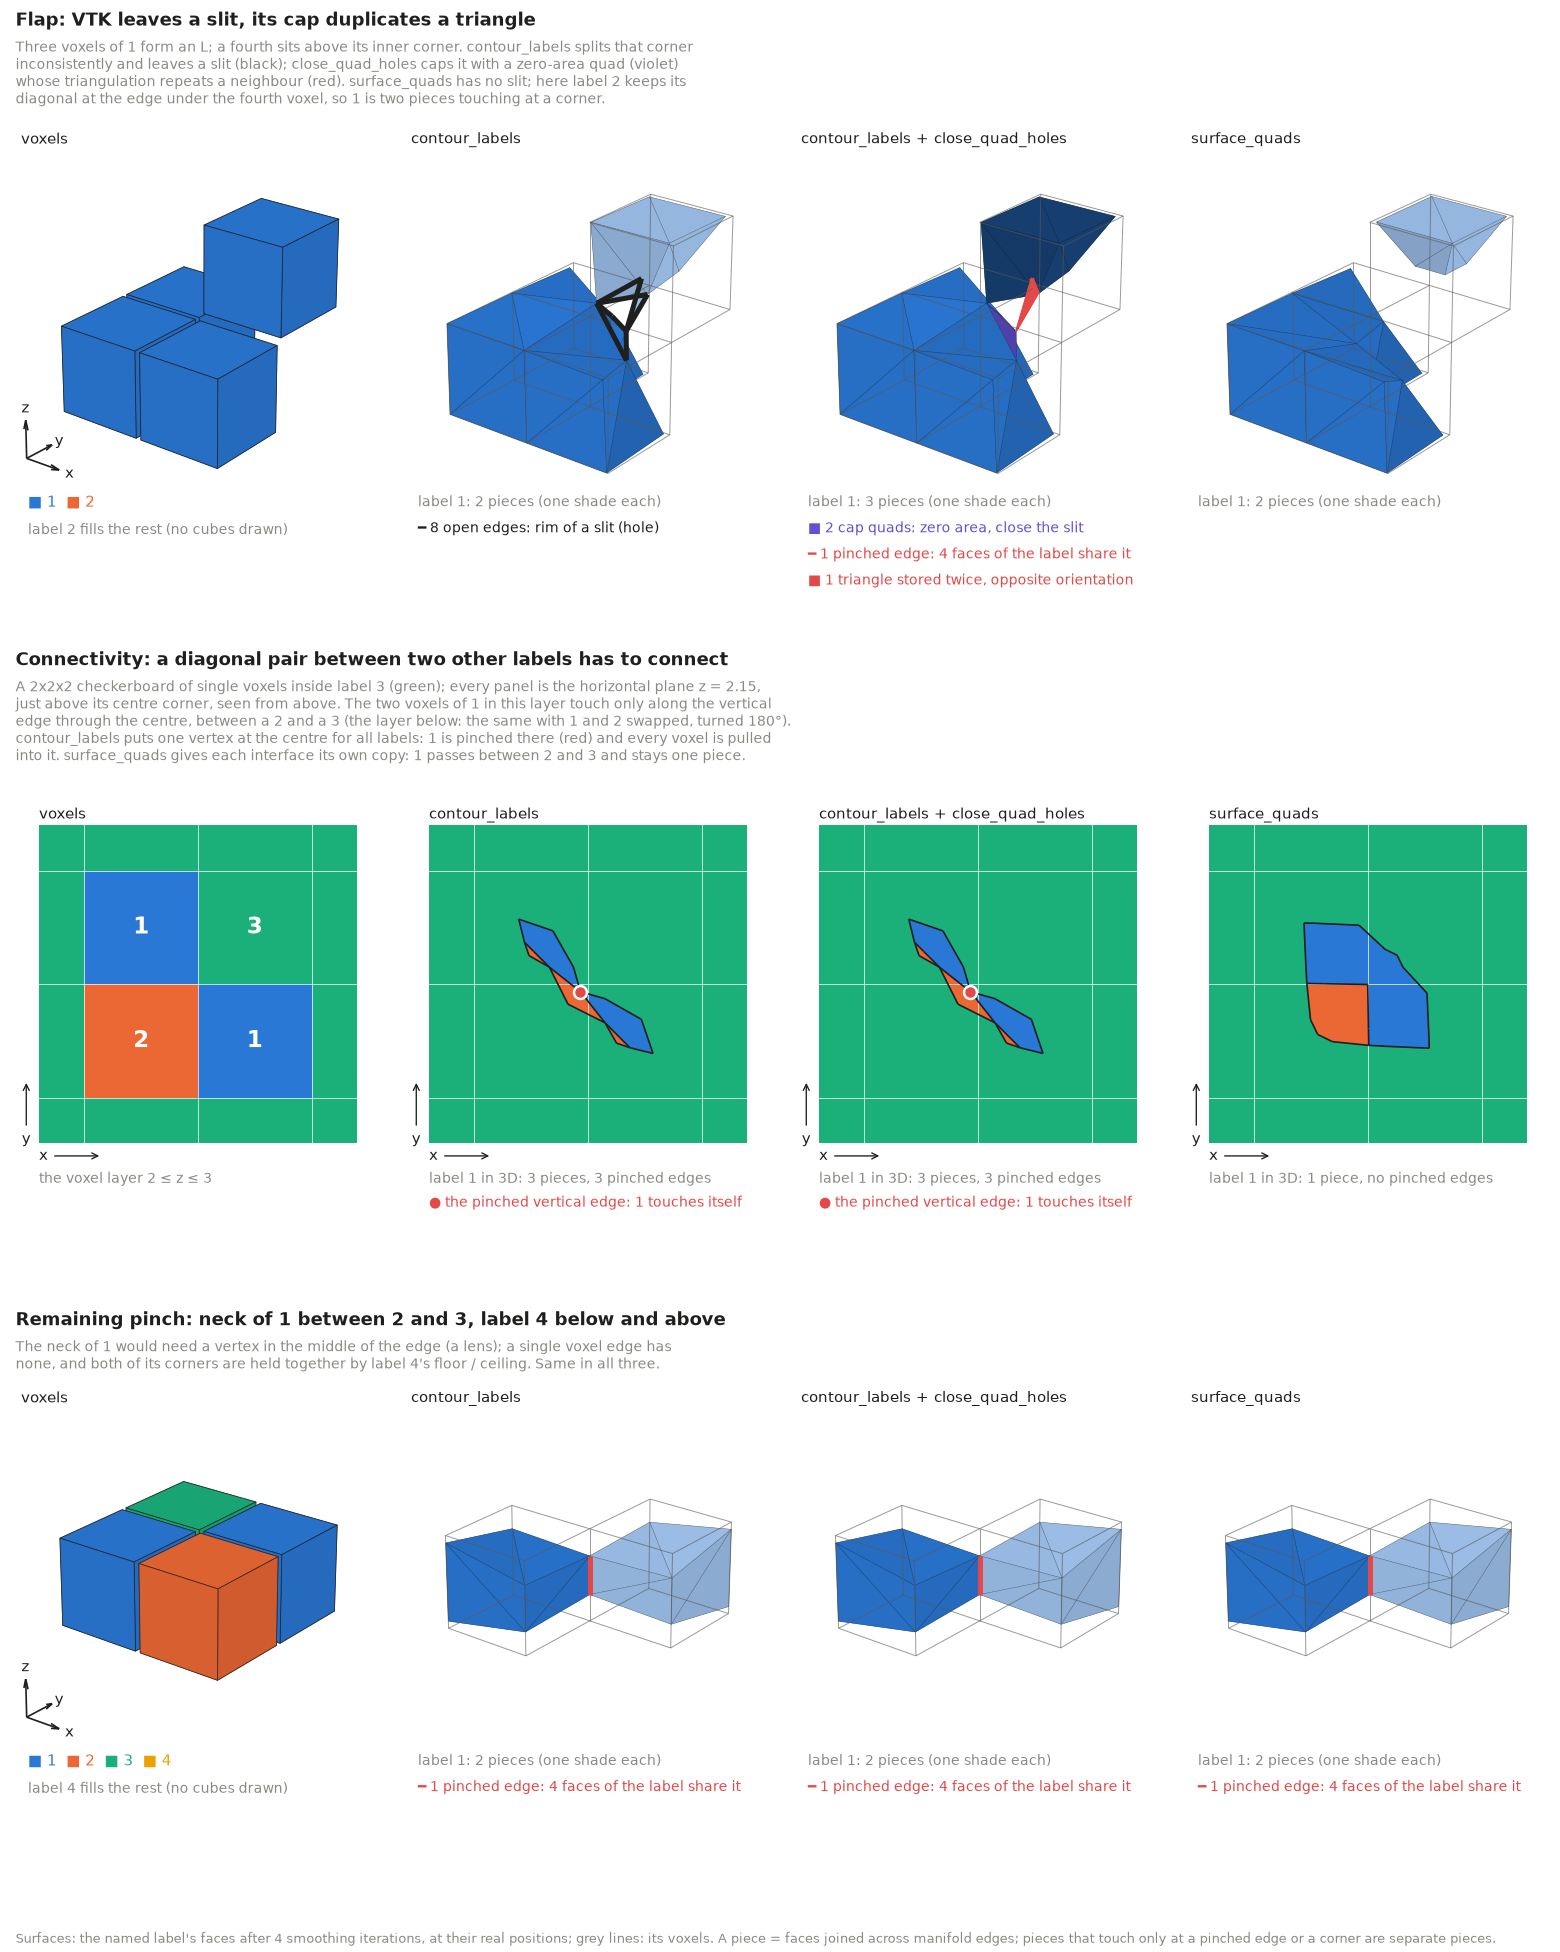
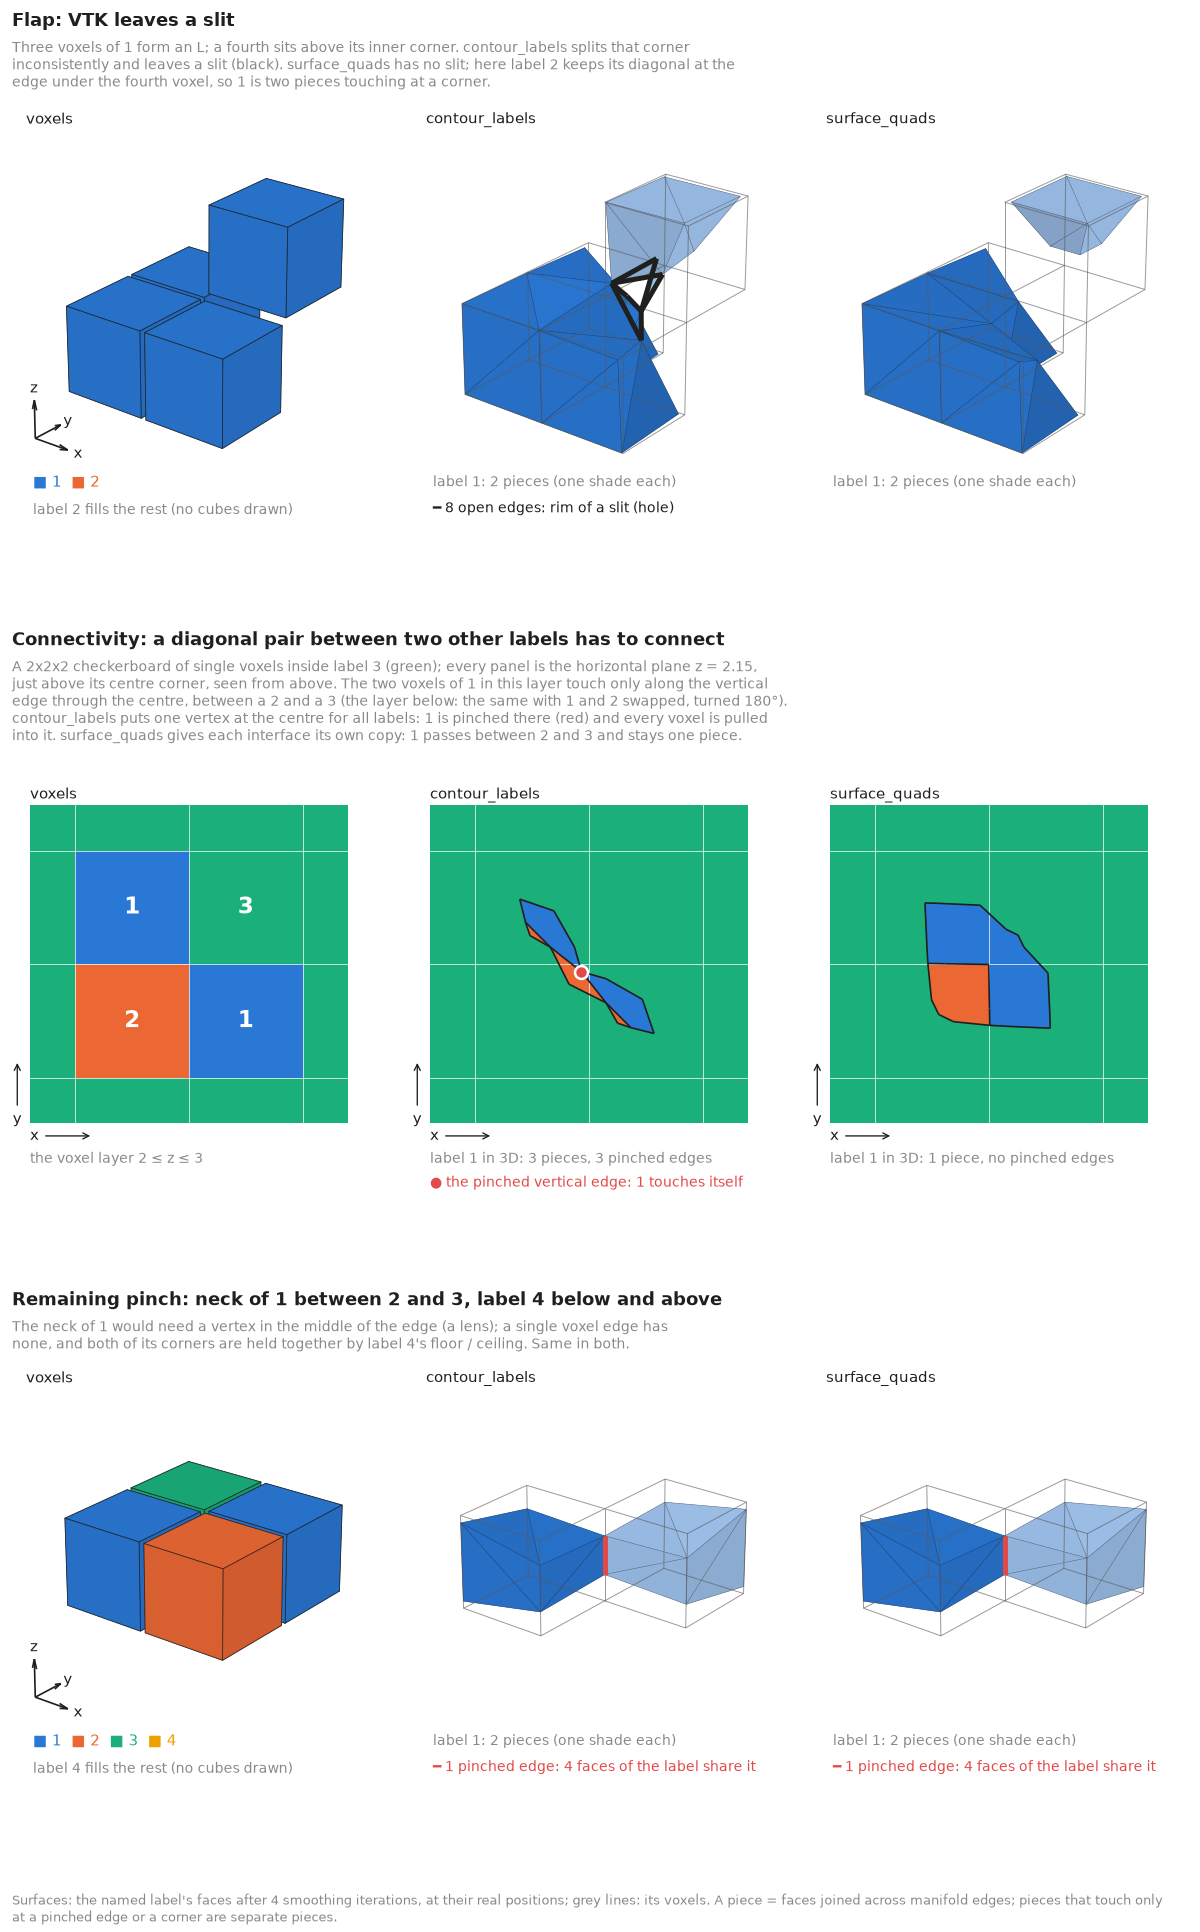
Remove close_quad_holes: surface_quads leaves no slits to close
extract_surface builds its quads with surface_quads, which keeps both
ends of every edge consistent, so the contour_labels slit repair is no
longer used. test_surface_quads_no_slit keeps the 3^3 slit block. The
docs figure drops its close_quad_holes column.

diff --git a/docs/surface_quads/plot_synth.py b/docs/surface_quads/plot_synth.py
@@ -1,7 +1,6 @@
 """
 Synthetic cases where surface_quads and contour_labels differ: the voxels,
-contour_labels as it is, with close_quad_holes, and surface_quads, each after
-a little smoothing.
+contour_labels and surface_quads, each after a little smoothing.
 
     python plot_synth.py OUT.png
 """
@@ -20,7 +19,7 @@ from scipy.sparse.csgraph import connected_components  # noqa: E402
 
 from imagemesh.image import np2pv  # noqa: E402
 from imagemesh.smoothing import smooth_surface_net  # noqa: E402
-from imagemesh.surface import close_quad_holes, surface_quads  # noqa: E402
+from imagemesh.surface import surface_quads  # noqa: E402
 
 warnings.simplefilter("ignore")
 ITER = 4
@@ -41,7 +40,7 @@ def shaded(polys, colours):
 
 
 VIEW = (24, -52)
-RED, ORANGE, VIOLET, INK, MUTED = "#e34948", "#eda100", "#6250d6", "#1f1f1e", "#8a8a85"
+RED, INK, MUTED = "#e34948", "#1f1f1e", "#8a8a85"
 
 
 def flap_case():
@@ -49,16 +48,14 @@ def flap_case():
     img[0, 0, 0] = img[1, 0, 0] = img[0, 1, 0] = 1  # an L in the bottom layer
     img[1, 1, 1] = 1  # above its inner corner: touches two of them along edges, one at a corner
     return (
-        "Flap: VTK leaves a slit, its cap duplicates a triangle",
+        "Flap: VTK leaves a slit",
         img,
         1,
         "Three voxels of 1 form an L; a fourth sits above its inner corner. contour_labels "
         "splits that corner\n"
-        "inconsistently and leaves a slit (black); close_quad_holes caps it with a zero-area "
-        "quad (violet)\n"
-        "whose triangulation repeats a neighbour (red). surface_quads has no slit; here label 2 "
-        "keeps its\n"
-        "diagonal at the edge under the fourth voxel, so 1 is two pieces touching at a corner.",
+        "inconsistently and leaves a slit (black). surface_quads has no slit; here label 2 keeps "
+        "its diagonal at the\n"
+        "edge under the fourth voxel, so 1 is two pieces touching at a corner.",
         None,
         2,
         None,
@@ -99,7 +96,7 @@ def pinch_case():
         "The neck of 1 would need a vertex in the middle of the edge (a lens); a single voxel "
         "edge has\n"
         "none, and both of its corners are held together by label 4's floor / ceiling. Same in "
-        "all three.",
+        "both.",
         ((0, 0, 1), (2, 2, 2)),
         4,
         None,
@@ -115,16 +112,10 @@ def surfaces(img):
         background_value=0,
         scalars="data",
     )
-    capped = close_quad_holes(raw)
-    ncap = capped.n_cells - raw.n_cells
-    out = []
-    for q, nc in ((raw, 0), (capped, ncap), (surface_quads(grid), 0)):
-        s = smooth_surface_net(q, iterations=ITER, distance=1.0, scale=1.2, fix_bounds=True)
-        cap = np.zeros(s.n_cells, bool)
-        if nc:
-            cap[-2 * nc :] = True
-        out.append((s, cap, nc))
-    return out
+    return [
+        smooth_surface_net(q, iterations=ITER, distance=1.0, scale=1.2, fix_bounds=True)
+        for q in (raw, surface_quads(grid))
+    ]
 
 
 def label_stats(tris, label_rows):
@@ -267,7 +258,7 @@ def setup(ax, lo, hi):
     ax.set_axis_off()
 
 
-def draw_surface(ax, surf, cap, label, img, box):
+def draw_surface(ax, surf, label, img, box):
     P = np.asarray(surf.points)
     T = surf.regular_faces
     bl = np.asarray(surf["boundary_labels"]).astype(int)
@@ -283,24 +274,18 @@ def draw_surface(ax, surf, cap, label, img, box):
     base = np.array(matplotlib.colors.to_rgb(LABEL_COLOUR[label]))
     shades = [base, 0.45 * base + 0.55, 0.55 * base, 0.7 * base + 0.3, 0.75 * base]
     polys = P[T[shown]]
-    fc = [VIOLET if cap[i] else shades[rowpiece[i] % len(shades)] for i in np.where(shown)[0]]
+    fc = [shades[rowpiece[i] % len(shades)] for i in np.where(shown)[0]]
     ax.add_collection3d(
         Poly3DCollection(
             polys, facecolors=shaded(polys, fc), edgecolors=(0.1, 0.1, 0.1, 0.35), linewidths=0.3
         )
     )
     voxel_outlines(ax, img, label, box)
-    s = np.sort(T, axis=1)
-    _, inv, cnt = np.unique(s, axis=0, return_inverse=True, return_counts=True)
-    dup = np.where((cnt[inv.ravel()] > 1) & rows)[0]
-    shown_dup = np.where((cnt[inv.ravel()] > 1) & shown)[0]
-    if len(shown_dup):
-        ax.add_collection3d(Poly3DCollection(P[T[shown_dup]], facecolors=RED, edgecolors=RED))
     for edges, col in ((opened, INK), (pinched, RED)):
         if len(edges):
             ax.add_collection3d(Line3DCollection(P[edges], colors=col, linewidths=3))
     setup(ax, lo, hi)
-    return pieces, len(opened), len(pinched), len(dup) // 2
+    return pieces, len(opened), len(pinched)
 
 
 def slice_regions(surf, z, lo, hi, n=400):
@@ -404,11 +389,10 @@ def main(out):
     cols = [
         "voxels",
         "contour_labels",
-        "contour_labels + close_quad_holes",
         "surface_quads",
     ]
     # explicit layout in inches: header (title + note), panel titles, panels, panel captions
-    W, PANEL, CAPTION, GAP = 13.0, 2.9, 1.0, 0.2
+    W, PANEL, CAPTION, GAP = 10.0, 2.9, 1.0, 0.2
     heads = [0.55 + 0.17 * (note.count("\n") + 1) for _, _, _, note, _, _, _ in cases]
     views = [(24, -52), (30, 45), (24, -52)]
     H = sum(heads) + len(cases) * (PANEL + CAPTION + GAP) + 0.45
@@ -423,10 +407,10 @@ def main(out):
         if box is None:  # the named label's voxels
             ijk = np.argwhere(img == label)
             box = (ijk.min(axis=0), ijk.max(axis=0) + 1)
-        for j in range(4):
+        for j in range(3):
             if plane is not None:  # the plane z = plane, from above
                 side = PANEL - 0.25
-                ax = fig.add_axes((0.005 + j / 4 + 0.02, (y + 0.1) / H, side / W, side / H))
+                ax = fig.add_axes((0.005 + j / 3 + 0.02, (y + 0.1) / H, side / W, side / H))
                 ax.set_title(cols[j], fontsize=9, color=INK, loc="left", pad=4)
                 if j == 0:
                     draw_voxel_plane(ax, img, plane)
@@ -440,7 +424,7 @@ def main(out):
                         va="top",
                     )
                     continue
-                pieces, npinch = draw_surface_plane(ax, surfs[j - 1][0], plane, label)
+                pieces, npinch = draw_surface_plane(ax, surfs[j - 1], plane, label)
                 lines = [
                     (
                         MUTED,
@@ -461,13 +445,12 @@ def main(out):
                         va="top",
                     )
                 continue
-            ax = fig.add_axes((0.005 + j / 4, y / H, 0.24, PANEL / H), projection="3d")
+            ax = fig.add_axes((0.005 + j / 3, y / H, 1 / 3 - 0.01, PANEL / H), projection="3d")
             ax.set_title(cols[j], fontsize=9, color=INK, loc="left", pad=2)
             if j == 0:
                 draw_voxels(ax, img, box, fill)
                 continue
-            s, cap, ncap = surfs[j - 1]
-            pieces, nopen, npinch, ndup = draw_surface(ax, s, cap, label, img, box)
+            pieces, nopen, npinch = draw_surface(ax, surfs[j - 1], label, img, box)
             lines = [
                 (
                     MUTED,
@@ -476,14 +459,12 @@ def main(out):
                 )
             ]
             for n, col, what in (
-                (ncap, VIOLET, "\u25a0 {} cap quad{}: zero area, close the slit"),
                 (nopen, INK, "\u2501 {} open edge{}: rim of a slit (hole)"),
                 (
                     npinch,
                     RED,
                     "\u2501 {} pinched edge{}: 4 faces of the label share it",
                 ),
-                (ndup, RED, "\u25a0 {} triangle{} stored twice, opposite orientation"),
             ):
                 if n:
                     lines.append((col, what.format(n, "s" * (n != 1))))
@@ -503,8 +484,7 @@ def main(out):
         0.05 / H,
         f"Surfaces: the named label's faces after {ITER} smoothing iterations, at their real "
         "positions; grey lines: its voxels. A piece = faces joined across manifold edges; pieces "
-        "that touch only "
-        "at a pinched edge or a corner are separate pieces.",
+        "that touch only\nat a pinched edge or a corner are separate pieces.",
         fontsize=8,
         color=MUTED,
         va="bottom",

diff --git a/src/imagemesh/surface.py b/src/imagemesh/surface.py
@@ -6,8 +6,6 @@ Conventions: cell data boundary_labels (a, b) per triangle, the normal points
 out of region a into region b; 0 is the background (outside).
 """
 
-import warnings
-
 import numba as nb
 import numpy as np
 import pyvista as pv
@@ -64,7 +62,7 @@ def surface_quads(grid, scalars="data", background_value=0, label_name="boundary
     the run connects, then the background, then the smaller label. The copies
     of a corner are the groups of its faces joined at its edges, so both ends
     of an edge agree and the surface is closed (vtkSurfaceNets3D splits the two
-    ends inconsistently and leaves slits, see close_quad_holes). A split edge
+    ends inconsistently and leaves slits). A split edge
     whose sheets are joined at both ends (e.g. a neck of the connecting label
     that ends in a third label at both ends) stays a pinch.
     """
@@ -276,98 +274,6 @@ def _corner_copies(pad, ids, bg):
             comp[i, lf] = root_comp[r]
         ncomp[i] = nc
     return comp, ncomp
-
-
-def close_quad_holes(surf, label_name="boundary_labels"):
-    """
-    Close the single-quad holes of a contour_labels quad mesh.
-
-    vtkSurfaceNets3D (VTK 9.7) splits the corners of pinches into coincident
-    copies, but not consistently at the two ends of an edge: the faces on
-    either side of the edge then use different copies and a slit opens, e.g.
-    for label 1 at (0, 2, 2), (1, 0, 0), (1, 0, 1), (2, 0, 0), (2, 1, 1) and
-    (2, 2, 2) of a 3^3 block of label 2. The slit's rim is four open edges of
-    faces with one label pair; each such loop is closed with a zero-area quad
-    of that label pair, oriented like its neighbours, which opens up in the
-    smoothing. Its triangulation can duplicate a neighbouring triangle; prefer
-    surface_quads, which splits consistently and leaves no slits.
-    """
-    quads = surf.regular_faces
-    labels = np.asarray(surf.cell_data[label_name])
-    new_quads, new_faces, n_open = _close_quad_holes(quads.astype(np.int64), labels, surf.n_points)
-    if n_open:
-        warnings.warn(f"close_quad_holes: {n_open} open edges are not on a single-quad hole")
-    if not len(new_quads):
-        return surf
-    out = pv.PolyData.from_regular_faces(
-        np.asarray(surf.points), np.vstack([quads, new_quads.astype(quads.dtype)])
-    )
-    out.cell_data[label_name] = np.vstack([labels, labels[new_faces]])
-    for name in surf.field_data:
-        out.field_data[name] = surf.field_data[name]
-    return out
-
-
-@nb.njit(cache=True)
-def _close_quad_holes(Q, L, n):
-    """
-    New quads closing the loops of four open edges of quads Q with one label
-    pair L, the quad whose labels each new quad takes, and the number of open
-    edges left.
-    """
-    m = 4 * len(Q)
-    key = np.empty(m, np.int64)
-    for f in range(len(Q)):
-        for i in range(4):
-            key[4 * f + i] = Q[f, i] * n + Q[f, (i + 1) % 4]
-    skey = np.sort(key)
-    # an open half-edge (a, b) has no reverse (b, a); the missing quad runs along (b, a)
-    U, V, F = [], [], []
-    for f in range(len(Q)):
-        for i in range(4):
-            a, b = Q[f, i], Q[f, (i + 1) % 4]
-            s = np.searchsorted(skey, b * n + a)
-            if s == m or skey[s] != b * n + a:
-                U.append(b)
-                V.append(a)
-                F.append(f)
-    U, V, F = np.array(U, np.int64), np.array(V, np.int64), np.array(F, np.int64)
-    # open edges grouped by start point
-    order = np.argsort(U, kind="mergesort")
-    su = U[order]
-    used = np.zeros(len(U), np.bool_)
-
-    def out_edges(p):
-        return order[np.searchsorted(su, p) : np.searchsorted(su, p, side="right")]
-
-    def fits(e, f0):
-        return not used[e] and L[F[e], 0] == L[f0, 0] and L[F[e], 1] == L[f0, 1]
-
-    new_quads, new_faces = [], []
-    for e0 in range(len(U)):
-        if used[e0]:
-            continue
-        f0, p0, p1 = F[e0], U[e0], V[e0]
-        found = False
-        for e1 in out_edges(p1):
-            p2 = V[e1]
-            if found or not fits(e1, f0) or p2 == p0 or p2 == p1:
-                continue
-            for e2 in out_edges(p2):
-                p3 = V[e2]
-                if found or not fits(e2, f0) or p3 == p0 or p3 == p1 or p3 == p2:
-                    continue
-                for e3 in out_edges(p3):
-                    if found or not fits(e3, f0) or V[e3] != p0:
-                        continue
-                    found = True
-                    used[e0] = used[e1] = used[e2] = used[e3] = True
-                    new_quads.append((p0, p1, p2, p3))
-                    new_faces.append(f0)
-    nq = np.empty((len(new_quads), 4), np.int64)
-    for k in range(len(new_quads)):
-        nq[k] = new_quads[k]
-    return nq, np.array(new_faces, np.int64), len(U) - 4 * len(new_quads)
 
 
 def transfer_labels(source_mesh, target_mesh, label_name="boundary_labels"):

diff --git a/tests/test_surface.py b/tests/test_surface.py
@@ -5,7 +5,6 @@ import pytest
 
 from imagemesh.image import np2pv
 from imagemesh.surface import (
-    close_quad_holes,
     extract_surface,
     label_volumes,
     self_intersections,
@@ -95,27 +94,6 @@ def open_edges(faces):
     a, b = faces.ravel(), np.roll(faces, -1, axis=1).ravel()
     n = faces.max() + 1
     return ~np.isin(b * n + a, a * n + b)
-
-
-def test_close_quad_holes():
-    # a 3^3 block for which vtkSurfaceNets3D drops one quad between labels 1 and 2
-    img = np.full((3, 3, 3), 2, dtype=np.uint32)
-    for p in [(0, 2, 2), (1, 0, 0), (1, 0, 1), (2, 0, 0), (2, 1, 1), (2, 2, 2)]:
-        img[p] = 1
-    surf = np2pv(img, (DX,) * 3).contour_labels(
-        "all", smoothing=False, output_mesh_type="quads", background_value=0, scalars="data"
-    )
-    if not open_edges(surf.regular_faces).any():
-        pytest.skip("this VTK version leaves no hole")
-    assert open_edges(surf.regular_faces).sum() == 4
-
-    closed = close_quad_holes(surf)
-    assert closed.n_cells == surf.n_cells + 1
-    assert not open_edges(closed.regular_faces).any()
-    assert np.array_equal(closed.regular_faces[:-1], surf.regular_faces)
-    assert sorted(closed["boundary_labels"][-1]) == [1, 2]
-    # nothing to close
-    assert close_quad_holes(closed) is closed
 
 
 def label_surface(surf, label):
@@ -208,7 +186,7 @@ def test_surface_quads_direction(flip):
 
 
 def test_surface_quads_no_slit():
-    # the 3^3 block where vtkSurfaceNets3D leaves a slit (test_close_quad_holes)
+    # a 3^3 block for which vtkSurfaceNets3D drops one quad between labels 1 and 2
     img = np.full((3, 3, 3), 2)
     for p in [(0, 2, 2), (1, 0, 0), (1, 0, 1), (2, 0, 0), (2, 1, 1), (2, 2, 2)]:
         img[p] = 1
